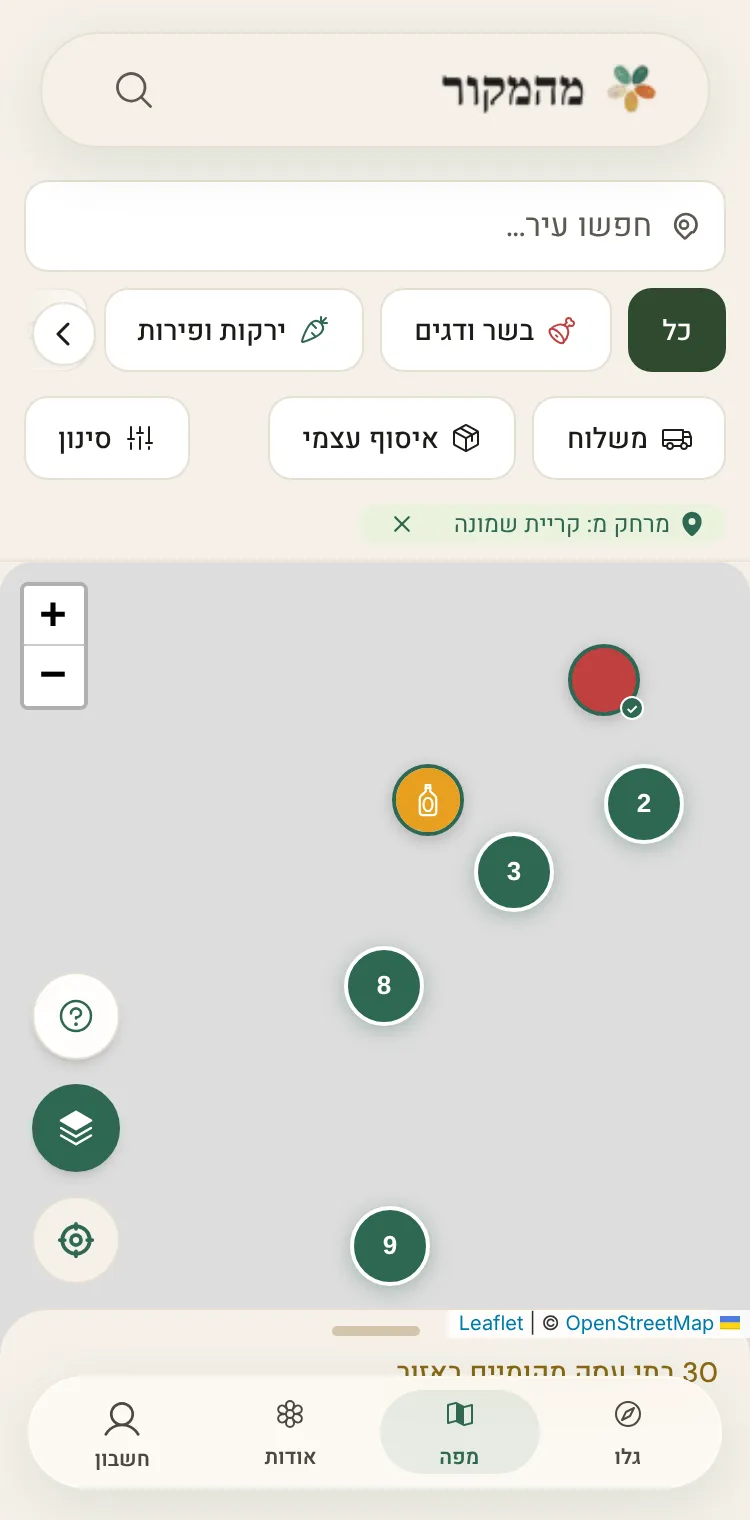
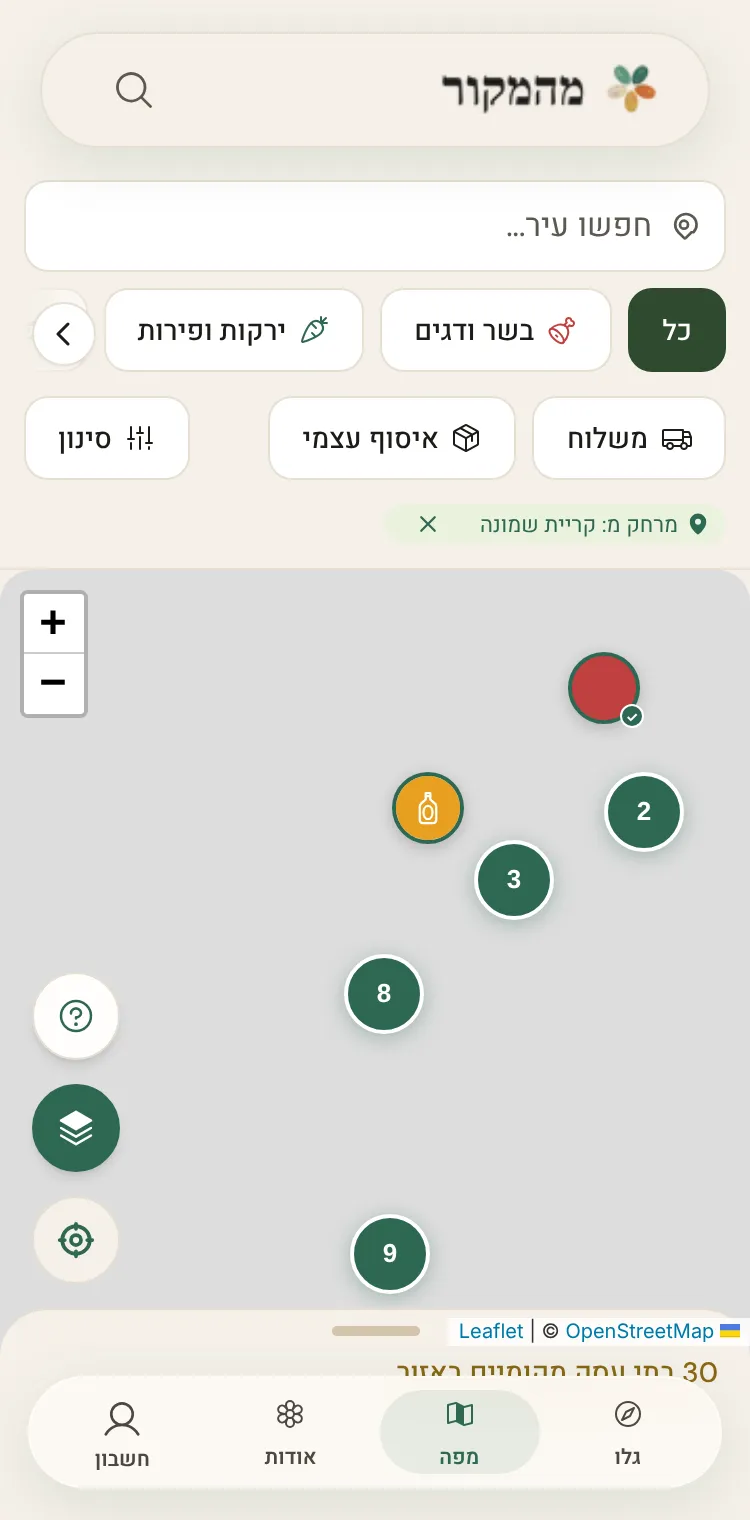
feat(map): the origin tag shares one row with the filter tags (MEH-2506)
Sapir asked whether the other tags show with it: they did, but on their
own row. FilterChipsBar now takes `originTag` and lays it first on one
row with the active-filter strip. The origin stays outside the strip:
not under its testid, not in its aria-live region (no nested live
regions), and «נקו הכל» still only clears filters.

Stronger-model review fixes on the same row:
- min-w-0 max-w-full on the origin's flex item, so an over-long label
  truncates instead of pushing the ✕ off-screen (×3 city at 320: ✕ at
  x=-95 without it, x=12 with it);
- mb-1 so the ✕'s 44px hit area ends inside the bar's measured height
  (✕ bottom 284 vs bar bottom 285; it spilled 3px onto the map);
- dropped a className assertion that only restated the code.

Tests: FilterChipsBarOriginTag (4 cases) red on staging's FilterChipsBar
(2 failed), green here. New mobile E2E «over-long origin label keeps its
✕ on screen» red without the min-w-0 fix (x -95.5), green with it. Map
spec locally: 46 passed, 26 skipped.

Builder-Model: claude-opus-5-5

Claude-Session: https://claude.ai/code/session_01X8DSqU1da8xjnxCMYoRE59

diff --git a/frontend/app/[locale]/map/MapClient.jsx b/frontend/app/[locale]/map/MapClient.jsx
@@ -553,8 +553,8 @@ export default function MapPage() {
   // (Sapir 28/10: the full-height row above them read as one more filter, and
   // a chip grown out of the near-me button looked wrong) — the same green tag
   // language as the active-filter strip, with the ✕ keeping a 44px hit area
-  // through negative margin (the MEH-825 tag pattern), so the bar grows by ~24px
-  // instead of 52.
+  // through negative margin (the MEH-825 tag pattern), so the bar grows by 36px
+  // (mt-3 + 20 + mb-1, measured) instead of 52.
   const originChip = (compact) =>
     cityOriginPending || (userLoc && !geoSortPending) ? (
       <div
@@ -575,12 +575,12 @@ export default function MapPage() {
           <span
             className={
               compact
-                ? "inline-flex items-center gap-1 max-w-full rounded-full bg-green-50 text-primary ps-2.5 text-xs"
+                ? "inline-flex items-center gap-1 max-w-full rounded-md bg-green-50 text-primary ps-2 text-[11px]"
                 : "inline-flex items-center gap-1.5 min-h-[44px] max-w-full rounded-full border border-border bg-surface-card ps-3 text-xs text-fg-muted"
             }
           >
             {compact ? (
-              <MapPin size={14} weight="fill" aria-hidden="true" className="shrink-0" />
+              <MapPin size={12} weight="fill" aria-hidden="true" className="shrink-0" />
             ) : (
               <MapPinLine size={14} weight="bold" aria-hidden="true" className="shrink-0 text-primary" />
             )}
@@ -627,7 +627,9 @@ export default function MapPage() {
     feed.loadProducers();
   };
 
-  const filterChipsBar = (
+  // MEH-2506: the mobile bar passes its origin tag in, so it shares one row
+  // with the active-filter tags instead of opening a row of its own.
+  const renderFilterChipsBar = (originTag = null) => (
     <FilterChipsBar
       visibleCategoryChips={filters.visibleCategoryChips}
       chipState={filters.chipState}
@@ -640,6 +642,7 @@ export default function MapPage() {
       activeFilterTags={filters.activeFilterTags}
       resetAllFilters={filters.resetAllFilters}
       cityFilter={filters.cityFilter}
+      originTag={originTag}
     />
   );
 
@@ -746,7 +749,7 @@ export default function MapPage() {
             <div className="mb-3">
               <CitySearch id="map-city-search-desktop" label={t("map.client.city_search.label")} value={filters.cityFilter} onChange={filters.setCityFilter} onSubmit={filters.handleCityFilter} placeholder={t("map.client.city_search.placeholder")} />
             </div>
-            {filterChipsBar}
+            {renderFilterChipsBar()}
           </div>
           {/* MEH-1230: pt-3.5 gives the sort <select>'s focus ring clearance at the
               scroll container's top edge. The control keeps -my-2.5 (compact count
@@ -892,15 +895,13 @@ export default function MapPage() {
           <div className="mb-2">
             <CitySearch id="map-city-search-mobile" label={t("map.client.city_search.label")} value={filters.cityFilter} onChange={filters.setCityFilter} onSubmit={filters.handleCityFilter} placeholder={t("map.client.city_search.placeholder")} />
           </div>
-          {filterChipsBar}
           {/* MEH-2014: the mobile half of the clear affordance. There is no sort
               <select> on this shell, but the NearMePill writes a location here,
               and a persisted fix with no way out is the failure this ticket's
               "explicit clear" requirement exists to prevent. MEH-2506: a compact
-              tag under the filter chips, not a full row above them. mt-3, not
-              mt-2: the ✕'s 44px hit area reaches 12px above the tag and must
-              clear the filter buttons (measured: 4px overlap at mt-2). */}
-          {mobileOriginTag && <div className="mt-3">{mobileOriginTag}</div>}
+              tag on the active-filter row under the chips (FilterChipsBar),
+              not a full row above them. */}
+          {renderFilterChipsBar(mobileOriginTag)}
         </div>
 
         {/* Map fills the rest — MEH-933 R2: pt = the bar's live MEASURED height

diff --git a/frontend/__tests__/FilterChipsBarOriginTag.test.jsx b/frontend/__tests__/FilterChipsBarOriginTag.test.jsx
@@ -1,0 +1,69 @@
+/**
+ * MEH-2506: the mobile distance-origin tag shares the active-filter strip
+ * (one row under the chips) instead of opening its own row. It is not a
+ * filter, so «נקו הכל» stays tied to the filter tags alone.
+ */
+import { describe, it, expect, vi, beforeEach } from "vitest";
+import { render, screen, within } from "@testing-library/react";
+
+import FilterChipsBar from "@/app/[locale]/map/components/FilterChipsBar";
+
+vi.mock("next-intl", () => ({ useTranslations: () => (k) => k }));
+
+describe("FilterChipsBar — origin tag in the active-filter strip (MEH-2506)", () => {
+  // REUSES: __tests__/DeliveryContextBanner.test.jsx:81-84 — jsdom lacks the
+  // scroll methods ChipScrollRow calls on mount.
+  beforeEach(() => {
+    Element.prototype.scrollTo = vi.fn();
+    Element.prototype.scrollIntoView = vi.fn();
+  });
+
+  const baseProps = {
+    visibleCategoryChips: [],
+    chipState: { categoryKeys: [] },
+    onCategoryChipClick: () => {},
+    onToggleChipClick: () => {},
+    onSheetToggleChip: () => {},
+    clearSheetFilters: () => {},
+    resultCount: 0,
+    activeFilterTags: [],
+    resetAllFilters: () => {},
+    cityFilter: "",
+  };
+  const KOSHER = [{ kind: "toggle", key: "kosher", label: "כשר" }];
+  const origin = <span data-testid="sort-origin">מרחק מ: חיפה</span>;
+
+  it("no origin, no filter tags: no strip", () => {
+    render(<FilterChipsBar {...baseProps} />);
+    expect(screen.queryByTestId("map-active-filter-tags")).toBeNull();
+  });
+
+  it("origin only: its row shows it, with no filter strip and no «clear all»", () => {
+    render(<FilterChipsBar {...baseProps} originTag={origin} />);
+    const row = screen.getByTestId("map-origin-row");
+    expect(within(row).getByTestId("sort-origin")).toBeInTheDocument();
+    expect(screen.queryByTestId("map-active-filter-tags")).toBeNull();
+    expect(screen.queryByTestId("map-clear-all")).toBeNull();
+  });
+
+  it("origin + a filter tag: one row — origin first, then the strip (tag + «clear all»)", () => {
+    render(<FilterChipsBar {...baseProps} activeFilterTags={KOSHER} originTag={origin} />);
+    const row = screen.getByTestId("map-origin-row");
+    const strip = within(row).getByTestId("map-active-filter-tags");
+    expect(row.firstElementChild).toContainElement(screen.getByTestId("sort-origin"));
+    expect(row.lastElementChild).toBe(strip);
+    // The origin is not a filter: it stays out of the strip's live region.
+    expect(strip).not.toContainElement(screen.getByTestId("sort-origin"));
+    const kids = [...strip.children].map((el) => el.getAttribute("data-testid"));
+    expect(kids).toEqual(["map-active-filter-tag", "map-clear-all"]);
+  });
+
+  it("filter tags without an origin: unchanged (no origin row; tag + «clear all», mt-2)", () => {
+    render(<FilterChipsBar {...baseProps} activeFilterTags={KOSHER} />);
+    expect(screen.queryByTestId("map-origin-row")).toBeNull();
+    const strip = screen.getByTestId("map-active-filter-tags");
+    expect(strip.className).toContain("mt-2");
+    const kids = [...strip.children].map((el) => el.getAttribute("data-testid"));
+    expect(kids).toEqual(["map-active-filter-tag", "map-clear-all"]);
+  });
+});

diff --git a/frontend/__tests__/MapManualOrigin.test.jsx b/frontend/__tests__/MapManualOrigin.test.jsx
@@ -77,8 +77,11 @@ vi.mock("@/components/LocationModal", () => ({
 vi.mock("@/components/CitySearch", () => ({ default: () => null }));
 vi.mock("@/components/MapBottomSheet", () => ({ default: () => null }));
 vi.mock("@/app/[locale]/map/components/CityPickerModal", () => ({ default: () => null }));
-// MEH-2506: a marker, so the mobile origin tag's place relative to the chips is checkable.
-vi.mock("@/app/[locale]/map/components/FilterChipsBar", () => ({ default: () => <div data-testid="filter-chips-bar" /> }));
+// MEH-2506: a marker that renders the origin tag it is handed, so where the
+// mobile tag goes (into the filter bar's strip) is checkable.
+vi.mock("@/app/[locale]/map/components/FilterChipsBar", () => ({
+  default: ({ originTag }) => <div data-testid="filter-chips-bar">{originTag}</div>,
+}));
 vi.mock("@/app/[locale]/map/components/MapCardList", () => ({ default: () => null }));
 // MapPane owns the GPS crosshair. Stubbed to a button firing its real
 // onGpsClick prop, because that — not the sort select — is the path by which a
@@ -253,17 +256,16 @@ describe("MEH-2014 PR 2 — a picked city becomes the sort origin", () => {
     // One per shell — desktop + mobile are both mounted, CSS hides one.
     expect(labels).toHaveLength(2);
     expect(labels[0]).toHaveTextContent("מרחק מ: חיפה");
-    // MEH-2506: on mobile it is a compact tag UNDER the filter chips (it was a
-    // full 44px bordered row above them), in the active-filter tag colours.
+    // MEH-2506: on mobile it is a compact tag handed to the filter bar (its
+    // active-filter strip, under the chips) — it was a full 44px bordered row
+    // above the bar — in the active-filter tag colours.
     const bar = screen.getByTestId("map-mobile-bar");
     const chips = within(bar).getByTestId("filter-chips-bar");
     const origin = within(bar).getByTestId("sort-origin");
-    expect(chips.compareDocumentPosition(origin) & Node.DOCUMENT_POSITION_FOLLOWING).toBeTruthy();
+    expect(chips).toContainElement(origin);
     const tag = within(origin).getByTestId("sort-origin-label").parentElement;
     expect(tag.className).toContain("bg-green-50");
     expect(tag.className).not.toContain("min-h-[44px]");
-    // The ✕ keeps its 44px hit area.
-    expect(within(origin).getByTestId("clear-user-location").className).toContain("w-11 h-11");
   });
 
   it("still applies the city FILTER when the geocode fails", async () => {

diff --git a/frontend/app/[locale]/map/components/FilterChipsBar.jsx b/frontend/app/[locale]/map/components/FilterChipsBar.jsx
@@ -41,6 +41,11 @@ export default function FilterChipsBar({
   // MEH-2046 PR-6: the active city refinement, needed only to gate + address
   // the day-bridge banner below (Option C refined state = delivery + city).
   cityFilter,
+  // MEH-2506: the mobile shell's distance-origin tag (MapClient
+  // `mobileOriginTag`). It shares one row with the active-filter strip, ahead
+  // of it, instead of opening a row of its own. It is not a filter: it stays
+  // outside the strip (its testid, its live region, «נקו הכל»).
+  originTag = null,
 }) {
   const t = useTranslations();
   const [sheetOpen, setSheetOpen] = useState(false);
@@ -145,11 +150,28 @@ export default function FilterChipsBar({
       {showDeliveryContextBanner && (
         <DeliveryContextBanner key={cityFilter} city={cityFilter} />
       )}
-      {activeFilterTags.length > 0 && (
+      {originTag ? (
+        // mt-3 / mb-1: the origin ✕ keeps a 44px hit area that reaches 12px
+        // past the tag on both sides — clear of the buttons above, and inside
+        // the bar's measured height below (else the map takes those pixels).
+        // min-w-0 max-w-full: a long city truncates instead of pushing the ✕
+        // off-screen in this flex-wrap row (320px, «מודיעין-מכבים-רעות»).
+        <div data-testid="map-origin-row" className="mt-3 mb-1 flex flex-wrap items-center gap-x-1.5 gap-y-2">
+          <div className="min-w-0 max-w-full">{originTag}</div>
+          {renderTagStrip("")}
+        </div>
+      ) : (
+        renderTagStrip("mt-2 ")
+      )}
+    </div>
+  );
+
+  function renderTagStrip(spacing) {
+    return activeFilterTags.length > 0 && (
         <div
           dir="rtl"
           data-testid="map-active-filter-tags"
-          className="mt-2 flex flex-wrap items-center gap-1.5"
+          className={`${spacing}flex flex-wrap items-center gap-1.5`}
           aria-live="polite"
         >
           {activeFilterTags.map((tag) => (
@@ -182,7 +204,6 @@ export default function FilterChipsBar({
             {t("map.filter.clear_all")}
           </button>
         </div>
-      )}
-    </div>
-  );
+    );
+  }
 }

diff --git a/frontend/e2e/flows/manual/map.spec.ts b/frontend/e2e/flows/manual/map.spec.ts
@@ -905,6 +905,22 @@ test.describe("manual › near-me pill + empty-near-me guard, mobile (MEH-970)",
     await expect(bar.getByTestId("sort-origin-label")).toHaveCount(0);
   });
 
+  // MEH-2506 — an over-long origin label truncates inside the tag; the ✕ must
+  //   stay on screen (in the flex-wrap row it was pushed past the inline-end).
+  //   Real city names fit at 320 (measured: «מודיעין-מכבים-רעות» 136px), so the
+  //   label is the name ×3 (×2 still fits, 234px) — the guard is for the row.
+  test("mobile: at 320px an over-long origin label keeps its ✕ on screen", async ({ page }, info) => {
+    mobileOnly(info, "the origin tag is the mobile bar's");
+    await page.setViewportSize({ width: 320, height: 700 });
+    await seedStorage(page, "user_location", JSON.stringify({ lat: 31.9, lng: 35.0, source: "city", city: "מודיעין-מכבים-רעות ".repeat(3).trim() }));
+    const { shell } = await gotoWithCatalog(page, info);
+    const clear = shell.getByTestId("map-mobile-bar").getByTestId("clear-user-location");
+    await expect(clear).toBeVisible();
+    const box = (await clear.boundingBox())!;
+    expect(box.x).toBeGreaterThanOrEqual(0);
+    expect(box.x + box.width).toBeLessThanOrEqual(320);
+  });
+
   // MT:MEH-970:3 — nothing within 25 km: the toast, the camera back on the
   //   default view (zoom 8), and ALL businesses still listed — never a blank map.
   test("mobile: near me with nothing within 25 km toasts, returns to the default view and keeps every business", async ({ page, context }, info) => {

diff --git a/frontend/__tests__/MapNearestSortTrigger.test.jsx b/frontend/__tests__/MapNearestSortTrigger.test.jsx
@@ -61,7 +61,9 @@ vi.mock("@/components/CitySearch", () => ({ default: () => null }));
 vi.mock("@/components/LocationModal", () => ({ default: () => null }));
 vi.mock("@/components/MapBottomSheet", () => ({ default: () => null }));
 vi.mock("@/app/[locale]/map/components/CityPickerModal", () => ({ default: () => null }));
-vi.mock("@/app/[locale]/map/components/FilterChipsBar", () => ({ default: () => null }));
+// MEH-2506: the mobile origin tag is handed to FilterChipsBar, so the stub
+// renders it — otherwise the mobile shell's ✕ would vanish from this test.
+vi.mock("@/app/[locale]/map/components/FilterChipsBar", () => ({ default: ({ originTag }) => originTag ?? null }));
 vi.mock("@/app/[locale]/map/components/MapCardList", () => ({ default: () => null }));
 vi.mock("@/app/[locale]/map/components/MapPane", () => ({ default: () => null }));
 vi.mock("@/app/[locale]/map/components/MobileSheetSelectedCard", () => ({ default: () => null }));
